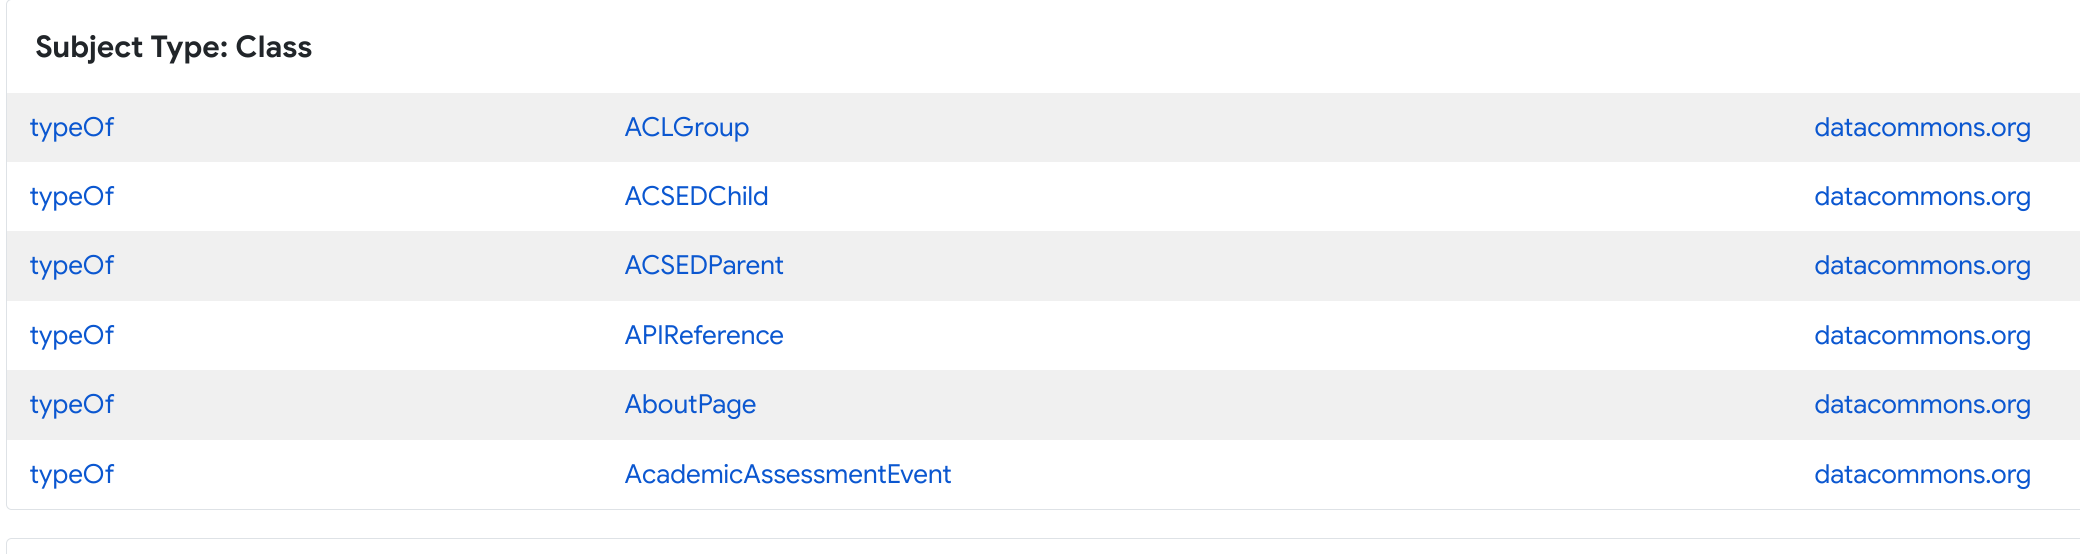
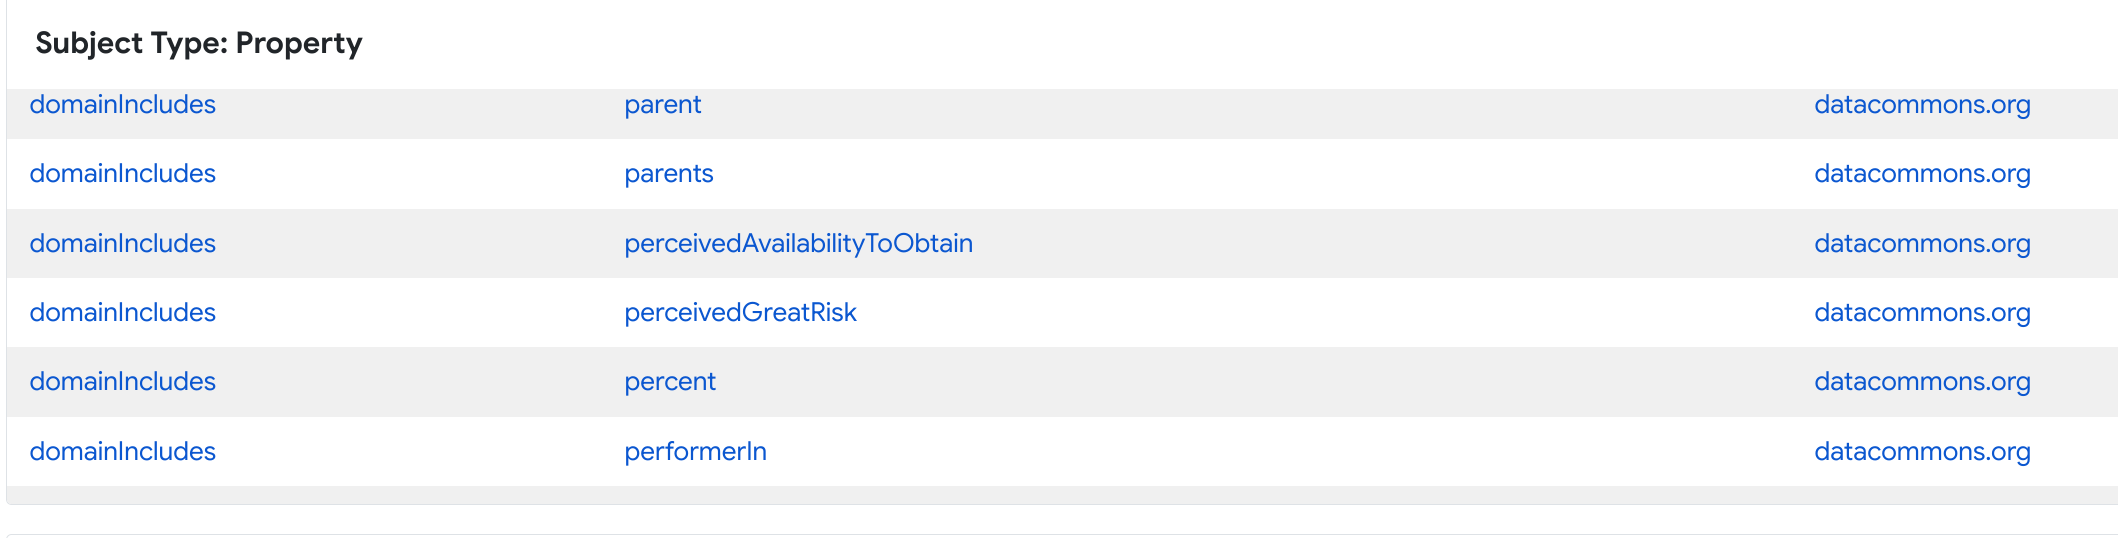
more changes

diff --git a/custom_dc/custom_data.md b/custom_dc/custom_data.md
@@ -225,11 +225,8 @@ Here is an example of how the config file would look for WHO CSV file we defined
 The following fields are specific to the variable-per-column format:
 
 - `input_files`:
-  - `entityType` must be an existing entity class in the Data Commons knowledge graph; it's most commonly a place type. For a full list of supported classes, go to [https://datacommons.org/browser/Class](https://datacommons.org/browser/Class){: target="_blank"} and scroll to the **Subject Type: Class** list:
-
-   ![group_screenshot](/assets/images/custom_dc/customdc_screenshot8.png){: width="250"}
-
-- `variables`: You must list out all of the variables you are using in your CSV files. The name should match the heading that appears in the CSV. The and description will be shown in the UI. 
+  - `entityType` must be an existing entity class in the Data Commons knowledge graph; it's most commonly a [place type](/place_types.html).
+Get a list of all existing statistical variables- `variables`: You must list out all of the variables you are using in your CSV files. The name should match the heading that appears in the CSV. The and description will be shown in the UI. 
   - `searchDescriptions` is a comma-separated list of natural-language text descriptions of the variable; these descriptions will be used to generate embeddings for the NL query interface.
   - `group` is optional, to display the variables as a group in the Statistical Variable Explorer, using the name you provide as heading. For example:
 
@@ -270,19 +267,18 @@ The following fields are always required:
 - `Node`: This is the DCID of the entity you are defining. It must be prefixed with `dcid:`. You may wish to add an optional namespace, separated by a slash (/); for example, `who/Adult_curr_cig_smokers`.
 - `typeOf`: In the case of statistical variable, this is always `dcs:StatisticalVariable`. `dcs` stands for "Data Commons schema", and should be used as the prefix for all, non-quoted field values.
 - `name`: This is the descriptive name of the variable, that is displayed in the Statistical Variable Explorer and various other places in the UI.
-
-- `populationType`: This must be an existing class. (same as entity type)
-- `measuredProperty`:  This is a  domainIncludes property of the population type you have specified. 
-
+- `populationType`: This is the type of thing being measured, and its value must be an existing `Class` type. In this example it is is `Person`.  For a full list of supported classes, you will have to send an API request, as described in [Get a list of all existing statistical variables](/api/rest/v2/node.html#liststatvars).
+- `measuredProperty`: This is a property of the thing being measured. It must be a `domainIncludes` property of the `populationType` you have specified. In this example, it is the `percent` of persons being measured. You can see the set of `domainIncludes` properties for a given `populationType`, using either of the following methods:
+  - Go to <code>https://datacommons.org/browser/<var>POPULATION_TYPE</var>, e.g. `https://datacommons.org/browser/Person` and scroll to the `domainIncludes` section of the page. For example: 
+  ![domain incudes](/assets/images/customdc_screenshot9.png)
+   - Use the [`node` API](/api/rest/v2/node.html#wildcard) filtering on `domainIncludes` incoming arcs: <code>https://api.datacommons.org/v2/node?key=AIzaSyCTI4Xz-UW_G2Q2RfknhcfdAnTHq5X5XuI&nodes=<var>POPULATION_TYPE</var>&property=%3C-domainIncludes</code>, e.g. `https://api.datacommons.org/v2/node?key=AIzaSyCTI4Xz-UW_G2Q2RfknhcfdAnTHq5X5XuI&nodes=Person&property=%3C-domainIncludes`.
 
 The following fields are optional:
-
 - `statType`: By default this is `dcs:measuredValue` 
-
-measurementQualifier (optional): additional qualifiers of the variable; e.g., Nominal for GDP.
+- `measurementQualifier`: additional qualifiers of the variable; e.g., Nominal for GDP.
 measurementDenominator (optional): for percentages or ratios, this refers to another StatisticalVariable node. E.g. for per-capita, the measurementDenominator is Count_Person.
-Additionally, there can be a number of property-value (PV) pairs representing the constraints on the type identified by populationType. In this example, there is one constraint property gender (which should be of type Person) with value Female. The constraint property values are typically Enumerations (here GenderType) or Quantity nodes.
 
+Additionally, there can be a number of property-value (PV) pairs representing the constraints on the type identified by populationType. In this example, there is one constraint property gender (which should be of type Person) with value Female. The constraint property values are typically Enumerations (here GenderType) or Quantity nodes.
 
 ### Prepare the CSV data files
 

diff --git a/api/rest/v2/node.md b/api/rest/v2/node.md
@@ -7,7 +7,11 @@ grand_parent: API - Query data programmatically
 published: true
 ---
 
+{: .no_toc}
 # /v2/node
+
+* TOC
+{:toc}
 
 Data Commons represents node relations as directed edges between nodes, or
 _properties_. The name of the property is a _label_, while the target node is the _value_ of
@@ -322,11 +326,11 @@ Response:
 
 
 {: #wildcard}
-### Example 4: Get all incoming arc values for a node
+### Example 4: Get all incoming arc values (properties) for a node
 
 Get all the incoming linked nodes for node `PowerPlant`, using `<-*`. Note that, unlike example 1, this query returns the actual property values, not just their labels. 
 
-Also note that the response contains a `nextToken`, so you need to send additional requests with the continuation tokens to get all the data.
+Also note that the response contains a `nextToken`, so to get all the data, you need to send additional requests with [continuation tokens](/api/rest/v2/index.html#pagination), until no `nextToken` is returned.
 
 Parameters:
 {: .example-box-title}
@@ -500,11 +504,12 @@ Response:
 ```
 {: .example-box-content .scroll}
 
+{: #liststatvars}
 ### Example 5: Get a list of all existing statistical variables
 
 Get all incoming linked nodes of node `StatisticalVariable`, with the `typeof` property. Since `StatisticalVariable` is a top-level entity, or entity type, this effectively gets all statistical variables.
 
-Also note that the response contains a `nextToken`, so you need to send additional requests with the continuation tokens to get all the data.
+Also note that the response contains a `nextToken`, so to get all the data, you need to send additional requests with [continuation tokens](/api/rest/v2/index.html#pagination), until no `nextToken` is returned.
 
 Parameters:
 {: .example-box-title}

diff --git a/api/rest/v2/index.md b/api/rest/v2/index.md
@@ -268,4 +268,4 @@ curl -X POST \
   "nextToken": "SoME_veRy_L0ng_STrIng"
 }'
 ```
-Don't forget to URL-encode any special characters that appear in the string.
+You must [URL-encode](#url-encode) any special characters that appear in the string.
